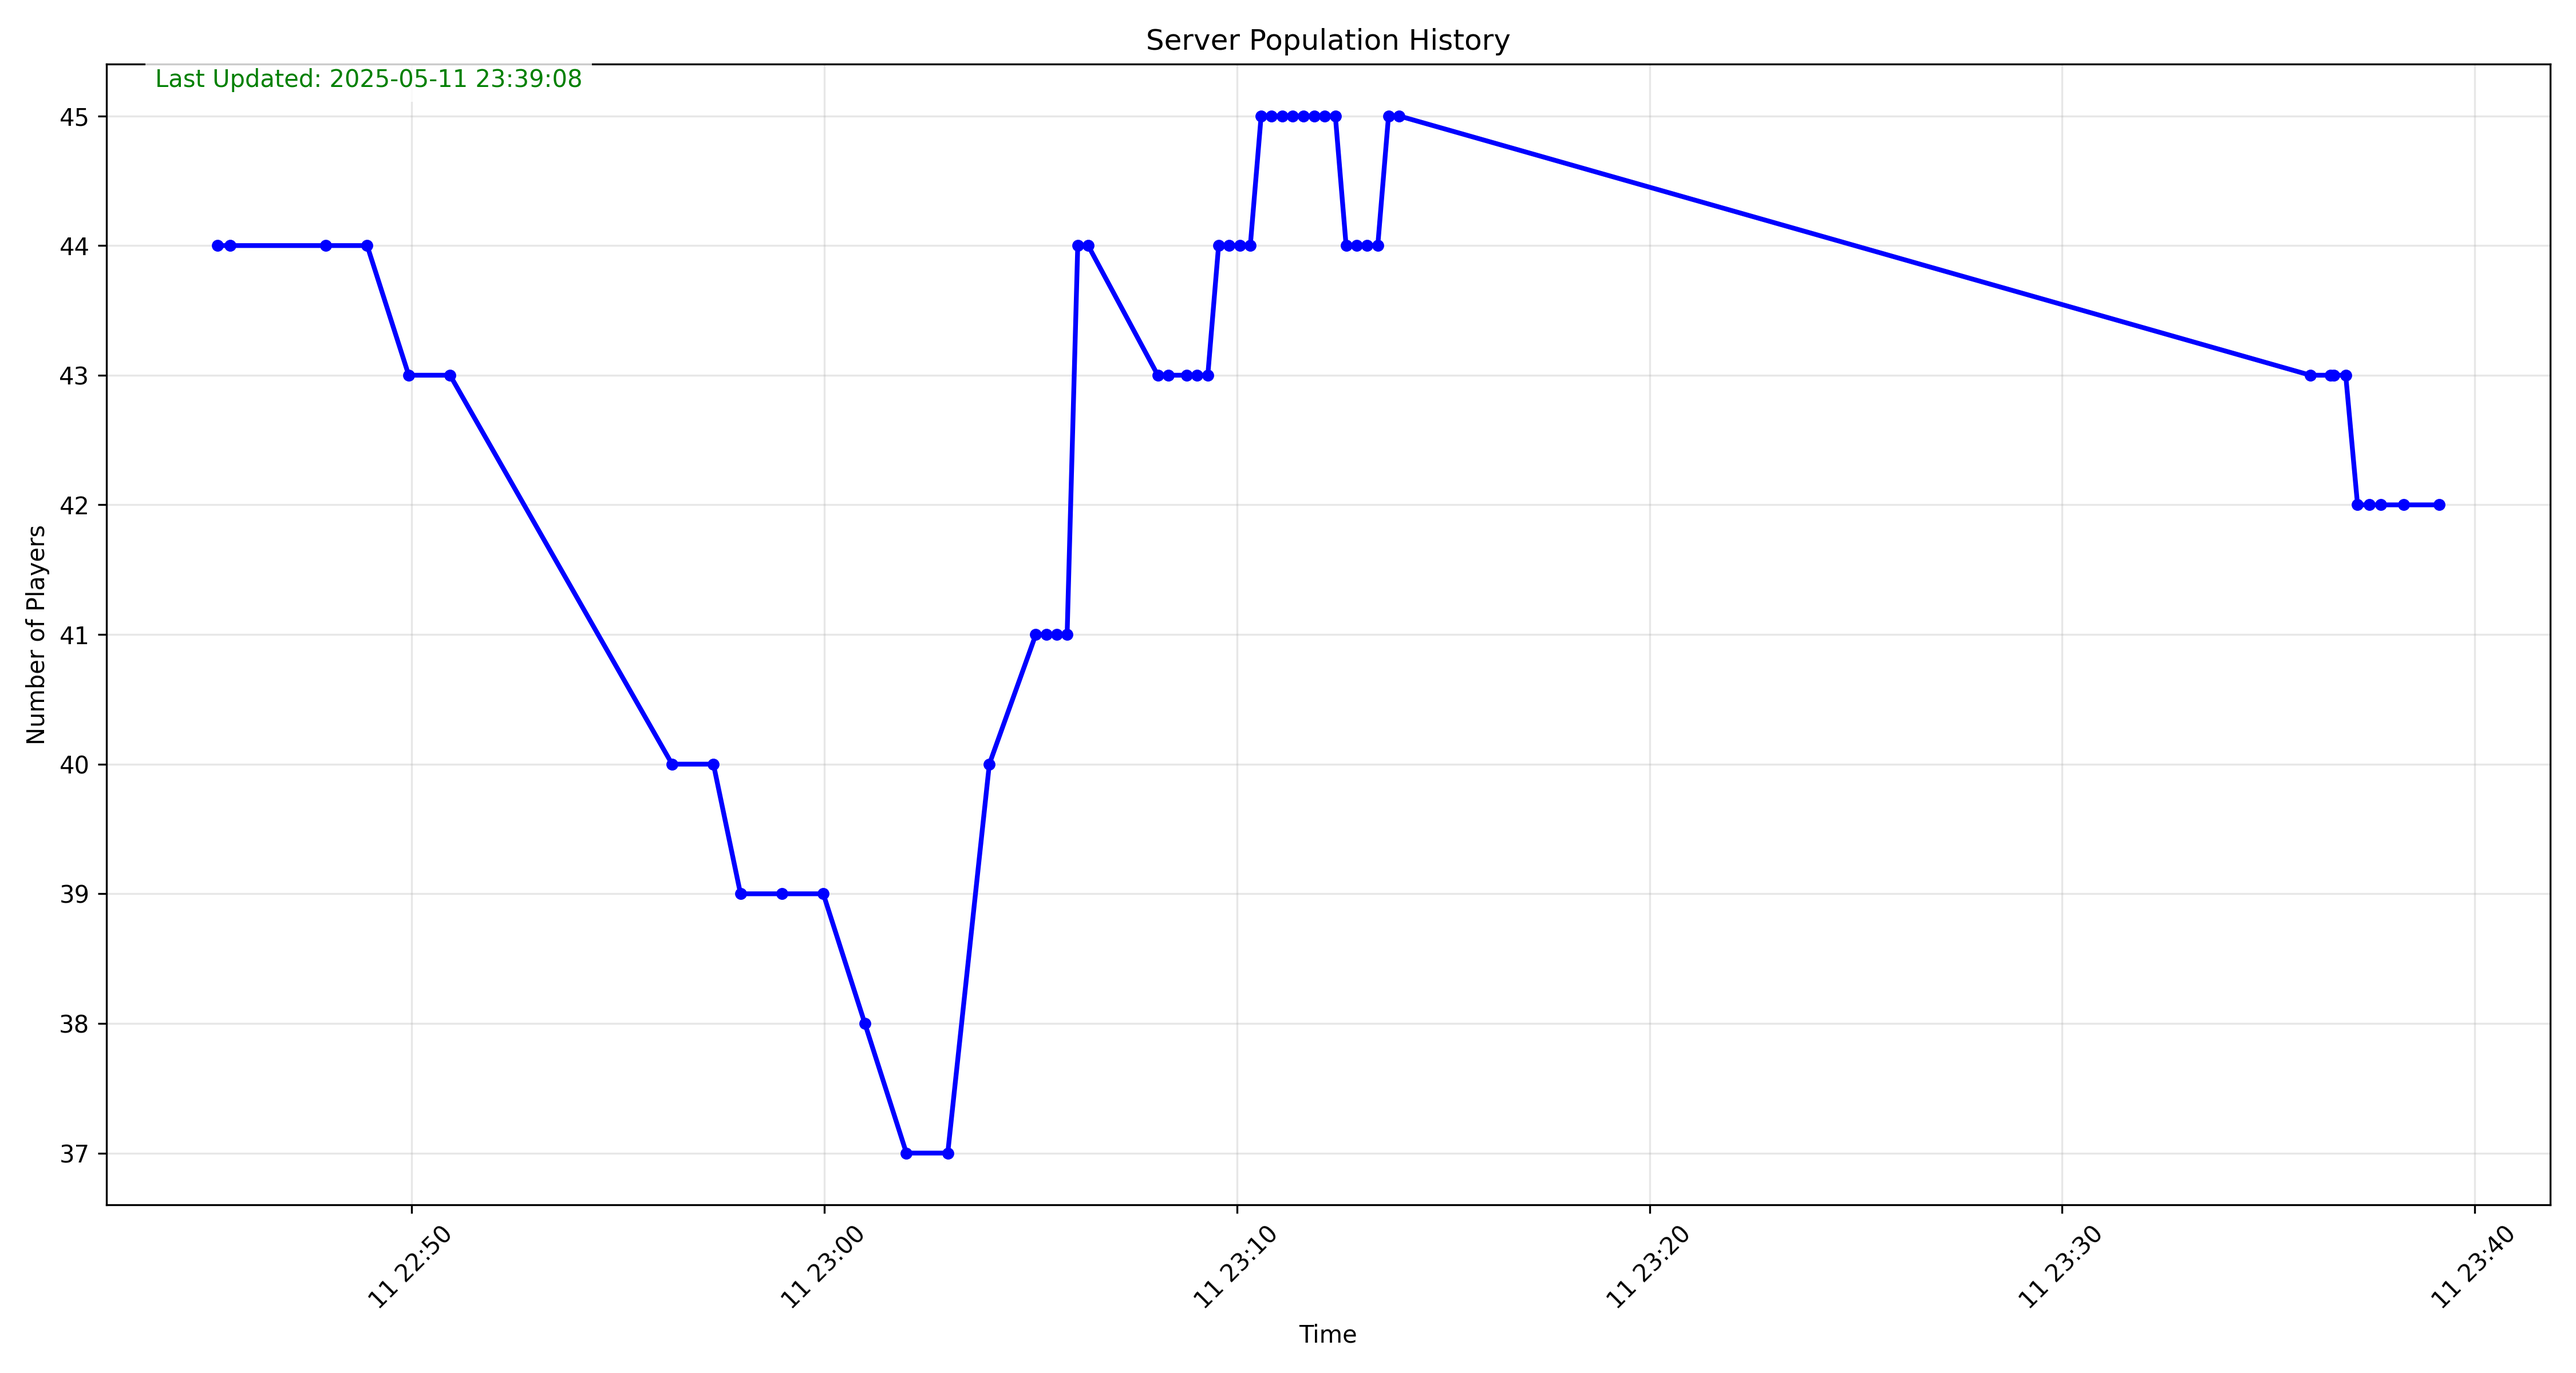
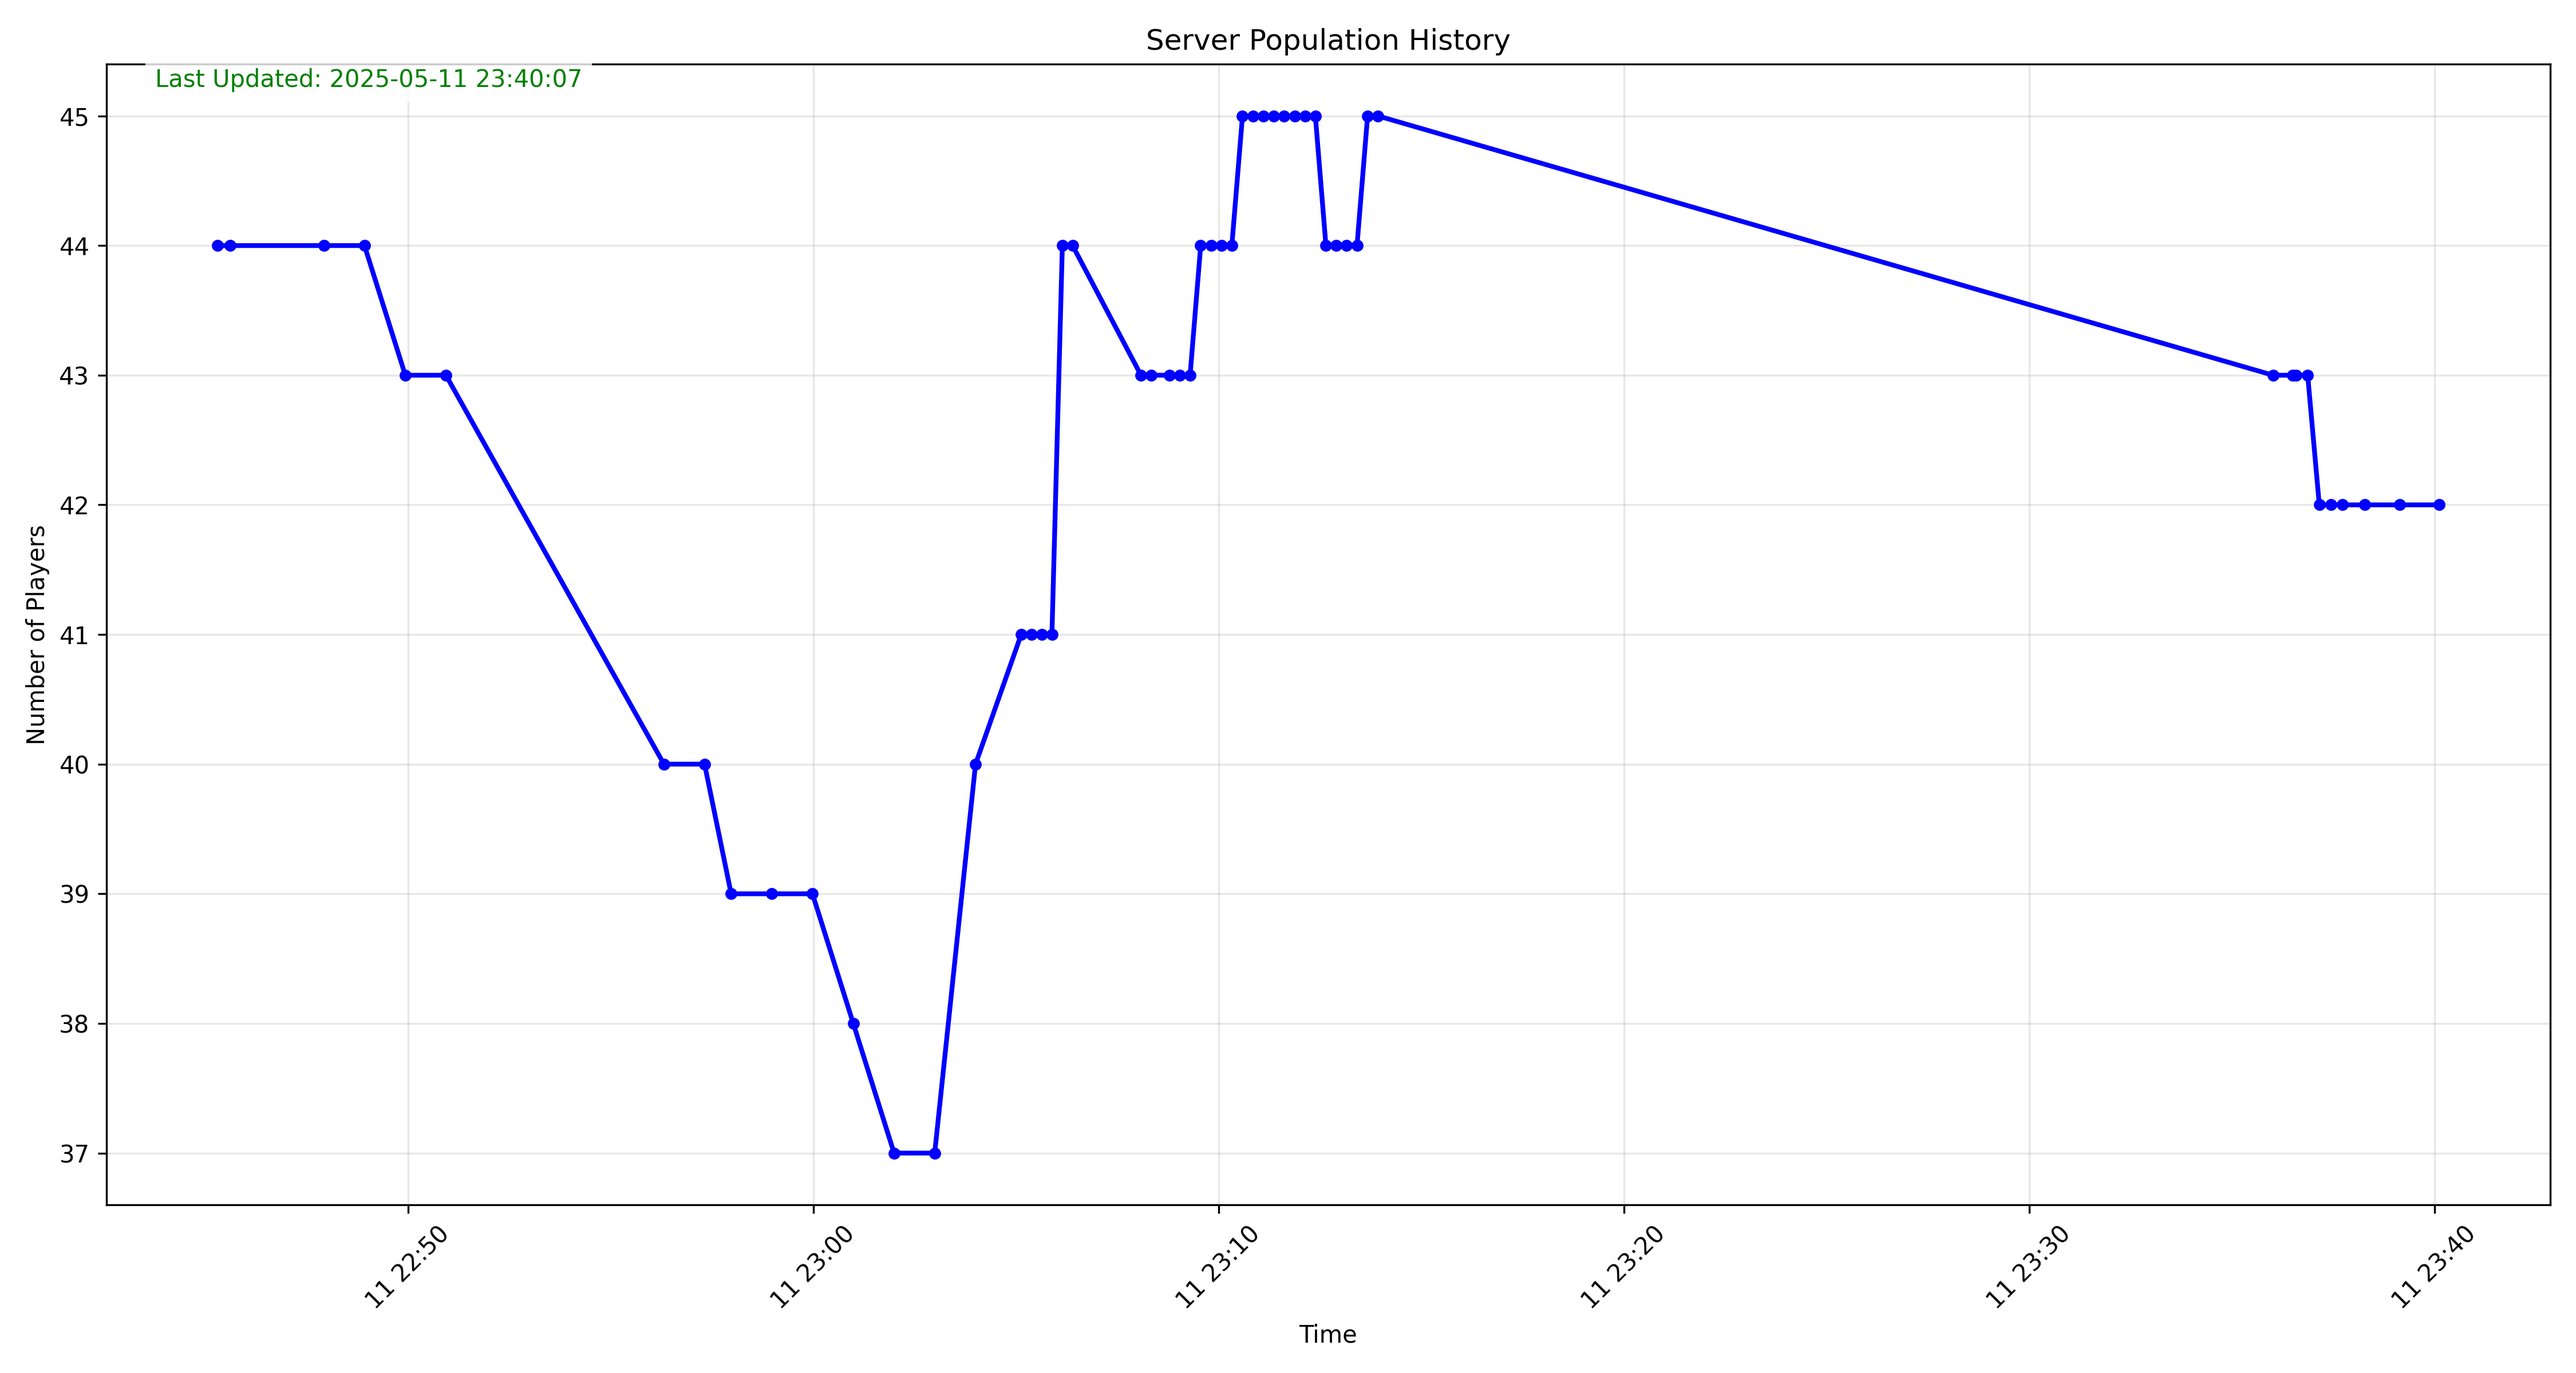
Update graph 2025-05-11 23:40:07

diff --git a/index.html b/index.html
@@ -1,21 +1,16 @@
-<!DOCTYPE html>
-<html>
-<head>
-    <title>Server Population</title>
-    <meta http-equiv="refresh" content="15">
-    <style>
-        body { 
-            display: flex; 
-            justify-content: center; 
-            align-items: center; 
-            height: 100vh; 
-            margin: 0;
-            background: #f0f0f0;
-        }
-        img { max-width: 95%; max-height: 95%; }
-    </style>
-</head>
-<body>
-    <img src="server_population.png" alt="Server Population Graph">
-</body>
-</html>
+
+        <html>
+        <head>
+            <meta http-equiv="refresh" content="180">
+            <style>
+                body { font-family: Arial, sans-serif; text-align: center; }
+                .update-time { color: green; font-size: 18px; margin: 20px; }
+                img { max-width: 100%; height: auto; }
+            </style>
+        </head>
+        <body>
+            <div class="update-time">Last Updated: 2025-05-11 23:40:07</div>
+            <img src="server_population.png" alt="Server Population Graph">
+        </body>
+        </html>
+        
